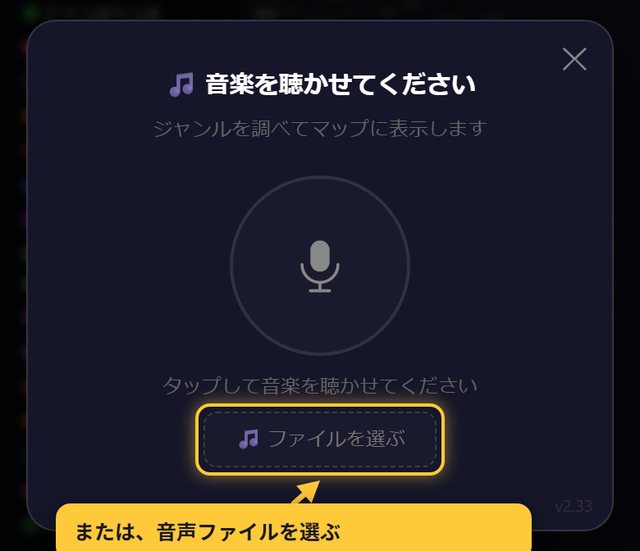
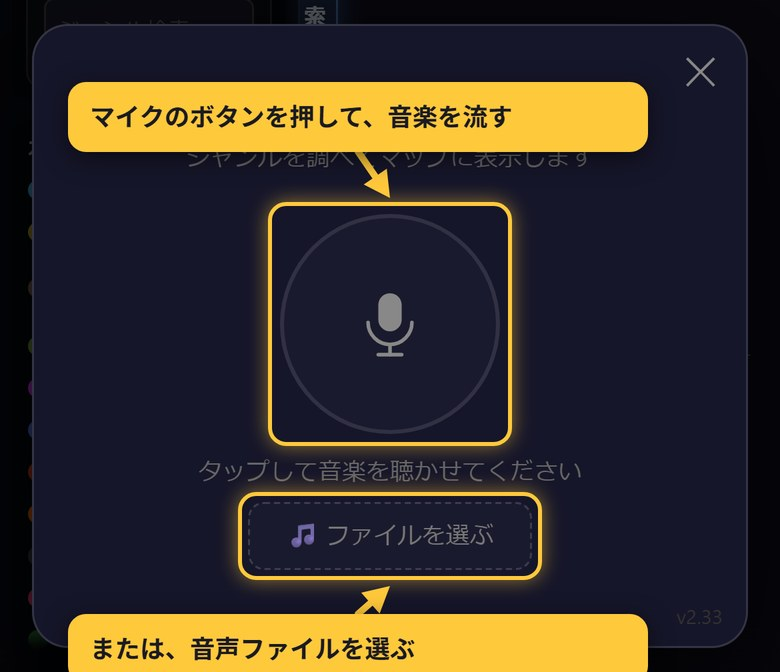
「これなんて曲？」の図を鮮明にし、機能そのものの案内と履歴の説明を足す
【1】図がぼやけていた
新しく入れた図だけ幅760pxで書き出しており、ほかのパソコン版の図
（1600px）より粗かった。1600pxで書き出し直し、撮影も3倍の細かさに
上げた。スマホ版も640px→780pxにそろえた。

【2】マイクの枠が無かった
説明文には「マイクのボタンを押すか、音声ファイルを選ぶ」と2通り
書いてあるのに、図はファイルのほうにしか枠が付いておらず、
ファイルからしか使えないように見えていた。
マイクのボタンを拾う指定が間違っていた（波形の canvas を拾っていた）
ので直し、両方に枠と矢印を付けた。

【3】機能そのものの案内を足した
「音を聴かせるだけで曲名が分かる」こと自体を知らない人が多いので、
章の頭に置いた。あわせて「マイクは使えますか？」として、
スマホ／ノート／デスクトップ別の目安、はじめて使うときに許可を
聞かれること、聴かせた音が辞典に残らないこと、マイクが無くても
ファイルから使えることを書いた。

【4】履歴の説明を厚くした
一行のヒントだったものを、独立した見出しにした。
▶で動画がその場で流れること（あとからまた聴ける）、
ジャンルのタグからルーツたどりに移れること、
履歴はこの端末のこのブラウザにだけ残ることを書いた。

検証：切り替え・図・リンクの12項目すべて合格。

diff --git a/docs/manual.html b/docs/manual.html
@@ -606,6 +606,28 @@
     <p>いま流れている曲や、持っている音源が何ジャンルなのか分からないとき、
       <b>聴かせるだけで調べられます</b>。「ジャンル検索」の引き出しを開いて、
       いちばん上の <span class="ui-tag">🎵 これなんて曲？</span> を押します。</p>
+    <div class="tip" style="margin-top:14px;">
+      <b>「いま流れているこの曲、なんて曲だろう？」</b><br>
+      喫茶店で、車の中で、テレビから――そんなときに、
+      <b>音を聴かせるだけで曲名とアーティスト名が分かります。</b>
+      さらにこの事典では、そこから<b>その曲のジャンル</b>まで調べて、地図の上で光らせます。
+      知らない曲との出会いを、そのままルーツたどりに繋げられます。
+    </div>
+
+    <h3>マイクは使えますか？</h3>
+    <p>この機能には、音を拾うマイクが要ります。お使いの機械しだいです。</p>
+    <ul>
+      <li><b>スマホ・タブレット</b> … ほぼ確実に使えます</li>
+      <li><b>ノートパソコン</b> … 内蔵マイクがあれば使えます（たいていあります）</li>
+      <li><b>デスクトップのパソコン</b> … マイクを繋いでいないと使えません</li>
+    </ul>
+    <p>はじめて使うときは、ブラウザが<b>「マイクを使ってもいいですか」</b>と聞いてきます。
+      「許可」を選んでください。聴かせた音は曲を調べるためだけに使われ、
+      <b>この辞典に残ることはありません。</b></p>
+    <p class="muted"><b>マイクが無くても大丈夫です。</b>
+      「ファイルを選ぶ」から、手元の音楽ファイル（mp3・wav・m4a など）を
+      読み込ませれば、まったく同じように調べられます。</p>
+
 
     <div class="step">
       <div class="step-num">1</div>
@@ -660,8 +682,20 @@
     </figure>
 
 
-    <div class="tip"><b>履歴：</b>ボタンの下の「🕘 履歴」を押すと、これまで調べた曲の一覧が見られます。
-      ジャンルのタグを押せば、その場で説明に移れます。</div>
+
+    <h3>調べた曲は「履歴」に残ります</h3>
+    <p>引き出しの中、「🎵 これなんて曲？」の下にある <span class="ui-tag">🕘 履歴</span> を押すと、
+      これまでに調べた曲が新しい順に並びます（最大15曲）。
+      ここが、実はいちばん使うところかもしれません。</p>
+    <ul>
+      <li><b>▶ を押すと、その曲の動画がその場で流れます。</b>
+        「あのとき聴いた、いい曲」を、あとからまた聴けます</li>
+      <li>ジャンルのタグを押せば、そのジャンルの説明にすぐ移れます。
+        「あの曲、こういう系統だったのか」から、ルーツたどりが始まります</li>
+    </ul>
+    <p class="muted">履歴はこの端末のこのブラウザにだけ残ります。
+      ほかの人に見られることはありませんし、別の端末には引き継がれません。</p>
+
   </section>
 
   <!-- ============ 8. リクエスト ============ -->
@@ -986,6 +1020,28 @@
     <div class="sec-num">4</div>
     <h2>「これなんて曲？」で調べる</h2>
     <p>今流れている曲や、持っている音源が何ジャンルなのか分からないとき、聴かせるだけで調べられる機能です。左側の <span class="ui-tag">🎵 これなんて曲？</span> ボタンから開きます。</p>
+    <div class="tip" style="margin-top:14px;">
+      <b>「いま流れているこの曲、なんて曲だろう？」</b><br>
+      喫茶店で、車の中で、テレビから――そんなときに、
+      <b>音を聴かせるだけで曲名とアーティスト名が分かります。</b>
+      さらにこの事典では、そこから<b>その曲のジャンル</b>まで調べて、地図の上で光らせます。
+      知らない曲との出会いを、そのままルーツたどりに繋げられます。
+    </div>
+
+    <h3>マイクは使えますか？</h3>
+    <p>この機能には、音を拾うマイクが要ります。お使いの機械しだいです。</p>
+    <ul>
+      <li><b>スマホ・タブレット</b> … ほぼ確実に使えます</li>
+      <li><b>ノートパソコン</b> … 内蔵マイクがあれば使えます（たいていあります）</li>
+      <li><b>デスクトップのパソコン</b> … マイクを繋いでいないと使えません</li>
+    </ul>
+    <p>はじめて使うときは、ブラウザが<b>「マイクを使ってもいいですか」</b>と聞いてきます。
+      「許可」を選んでください。聴かせた音は曲を調べるためだけに使われ、
+      <b>この辞典に残ることはありません。</b></p>
+    <p class="muted"><b>マイクが無くても大丈夫です。</b>
+      「ファイルを選ぶ」から、手元の音楽ファイル（mp3・wav・m4a など）を
+      読み込ませれば、まったく同じように調べられます。</p>
+
     <div class="step">
       <div class="step-num">1</div>
       <div class="step-body">
@@ -1034,7 +1090,20 @@
       <figcaption>選んだジャンルが地図の上で光る。ここから丸を押せば、そのジャンルの説明が読める。</figcaption>
     </figure>
 
-    <div class="tip"><b>履歴：</b>ボタンの下にある「🕘 履歴」を押すと、これまで調べた曲の一覧が見られます。ジャンルタグをタップすれば、その場でジャンルの説明パネルにジャンプできます。</div>
+
+    <h3>調べた曲は「履歴」に残ります</h3>
+    <p>「🎵 これなんて曲？」ボタンの下にある <span class="ui-tag">🕘 履歴</span> を押すと、
+      これまでに調べた曲が新しい順に並びます（最大15曲）。
+      ここが、実はいちばん使うところかもしれません。</p>
+    <ul>
+      <li><b>▶ を押すと、その曲の動画がその場で流れます。</b>
+        「あのとき聴いた、いい曲」を、あとからまた聴けます</li>
+      <li>ジャンルのタグを押せば、そのジャンルの説明にすぐ移れます。
+        「あの曲、こういう系統だったのか」から、ルーツたどりが始まります</li>
+    </ul>
+    <p class="muted">履歴はこの端末のこのブラウザにだけ残ります。
+      ほかの人に見られることはありませんし、別の端末には引き継がれません。</p>
+
   </section>
 
   <section id="add">
